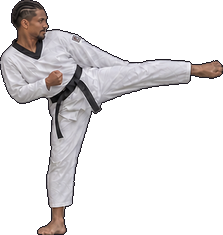
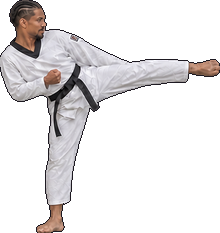
MATT e CLEITON com posição de luta corrigida
Claude-Session: https://claude.ai/code/session_01HXNLdPa6jqkq51q5LfzTTd

Changed region(s): [[0.0273, 0.2103, 1.0, 1.0], [0.0, 0.0, 0.5182, 0.3605], [0.0545, 0.2704, 0.0818, 0.3004]]

diff --git a/index.html b/index.html
@@ -148,9 +148,9 @@ const ROSTER=[
  {nome:'JULINHA 2',tam:0.82,real:true,hit:{soco:{x:10,y:-49,w:22,h:13},direto:{x:8,y:-47,w:22,h:13},chute:{x:11,y:-57,w:22,h:13},giro:{x:11,y:-57,w:22,h:13},passo:{x:11,y:-57,w:22,h:13},aereo:{x:11,y:-57,w:22,h:13}},spr:{idle:['julinha2-idle.webp',88.2,1.0],a0:['julinha2-idle.webp',88.2,1.0],a1:['julinha2-idle2.webp',91.2,1.0],a2:['julinha2-andar.webp',58.2,1.004],a3:['julinha2-idle2.webp',91.2,1.0],junta:['julinha2-junta.webp',37.5,1.004],soco:['julinha2-soco.webp',87.0,0.983],direto:['julinha2-direto.webp',92.0,0.983],chute:['julinha2-chute.webp',62.0,1.004],alto:['julinha2-chute.webp',62.0,1.004],passo:['julinha2-chute.webp',62.0,1.004],guarda:['julinha2-guarda.webp',92.2,1.0]},faixa:'#f2c230',pele:'#c98d63',cabelo:'#141010',estilo:'rabo'},
  {nome:'LAURA',real:true,hit:{soco:{x:6,y:-48,w:22,h:13},direto:{x:7,y:-50,w:22,h:13},chute:{x:7,y:-62,w:22,h:13},giro:{x:13,y:-59,w:22,h:13},passo:{x:20,y:-50,w:22,h:13},lateral:{x:20,y:-50,w:22,h:13},aereo:{x:7,y:-62,w:22,h:13}},spr:{idle:['laura-idle.webp',73.2,1.0],a0:['laura-idle.webp',73.2,1.0],a1:['laura-idle2.webp',78.8,1.021],a2:['laura-andar.webp',51.5,0.983],a3:['laura-idle2.webp',78.8,1.021],soco:['laura-soco.webp',93.2,0.933],direto:['laura-direto.webp',93.8,0.963],chute:['laura-chute.webp',46.0,1.038],alto:['laura-alto.webp',85.0,1.012],passo:['laura-lado.webp',78.5,1.021],guarda:['laura-guarda.webp',75.0,0.979]},faixa:'#e6e6e0',pele:'#d9a27a',cabelo:'#1a120d',estilo:'rabo'},
  {nome:'IAN',real:true,hit:{soco:{x:10,y:-48,w:22,h:13},direto:{x:8,y:-49,w:22,h:13},chute:{x:14,y:-52,w:22,h:13},giro:{x:8,y:-60,w:22,h:13},passo:{x:14,y:-52,w:22,h:13},lateral:{x:14,y:-52,w:22,h:13},aereo:{x:14,y:-24,w:22,h:13}},spr:{idle:['ian-idle.webp',73.5,1.0],a0:['ian-idle.webp',73.5,1.0],a1:['ian-guarda.webp',66.5,0.996],a2:['ian-andar.webp',65.8,0.992],a3:['ian-guarda.webp',66.5,0.996],junta:['ian-junta.webp',30.5,1.038],soco:['ian-soco.webp',93.5,0.958],direto:['ian-direto.webp',96.2,0.975],chute:['ian-chute.webp',75.5,0.988],alto:['ian-alto.webp',62.5,1.071],passo:['ian-chute.webp',75.5,0.988],voa:['ian-voa.webp',46.8,0.675],guarda:['ian-guarda.webp',66.5,0.996]},faixa:'#e6e6e0',pele:'#d9a27a',cabelo:'#141010',estilo:'curto'},
- {nome:'MATT',tam:1.14,real:true,hit:{soco:{x:8,y:-50,w:22,h:13},direto:{x:9,y:-49,w:22,h:13},chute:{x:12,y:-44,w:22,h:13},passo:{x:13,y:-49,w:22,h:13},lateral:{x:13,y:-49,w:22,h:13},aereo:{x:12,y:-44,w:22,h:13},salto:{x:10,y:-67,w:26,h:18}},spr:{idle:['matt-idle.webp',66.0,1.0],a0:['matt-idle.webp',66.0,1.0],a1:['matt-andar.webp',80.5,0.979],a2:['matt-andar.webp',80.5,0.979],a3:['matt-andar.webp',80.5,0.979],soco:['matt-soco.webp',95.2,0.979],direto:['matt-direto.webp',101.2,0.967],chute:['matt-chute.webp',52.0,1.021],passo:['matt-lado.webp',94.0,1.004],pulo:['matt-pulo.webp',88.0,0.821],gancho:['matt-gancho.webp',84.5,1.008],pouso:['matt-pouso.webp',98.5,0.629],guarda:['matt-idle.webp',66.0,1.0]},faixa:'#151515',gola:true,pele:'#e0b48e',cabelo:'#1a120d',estilo:'cacheado'},
+ {nome:'MATT',tam:1.14,real:true,hit:{soco:{x:8,y:-50,w:22,h:13},direto:{x:9,y:-49,w:22,h:13},chute:{x:12,y:-43,w:22,h:13},passo:{x:12,y:-49,w:22,h:13},lateral:{x:12,y:-49,w:22,h:13},aereo:{x:12,y:-43,w:22,h:13},salto:{x:4,y:-62,w:30,h:26}},spr:{idle:['matt-idle.webp',70.2,1.0],a0:['matt-idle.webp',70.2,1.0],a1:['matt-andar.webp',81.2,0.975],a2:['matt-andar.webp',81.2,0.975],a3:['matt-andar.webp',81.2,0.975],soco:['matt-soco.webp',95.0,0.967],direto:['matt-direto.webp',101.5,0.958],chute:['matt-chute.webp',49.5,1.012],passo:['matt-lado.webp',95.5,0.996],pulo:['matt-pulo.webp',87.5,0.812],gancho:['matt-gancho.webp',83.0,1.017],pouso:['matt-pouso.webp',97.0,0.629],guarda:['matt-idle.webp',70.2,1.0]},faixa:'#151515',gola:true,pele:'#e0b48e',cabelo:'#1a120d',estilo:'cacheado'},
  {nome:'TIO',real:true,hit:{soco:{x:12,y:-51,w:22,h:13},direto:{x:11,y:-50,w:22,h:13},chute:{x:19,y:-47,w:22,h:13},giro:{x:19,y:-47,w:22,h:13},passo:{x:18,y:-41,w:22,h:13},lateral:{x:18,y:-41,w:22,h:13},aereo:{x:19,y:-47,w:22,h:13}},spr:{idle:['tio-idle.webp',74.2,1.0],a0:['tio-idle.webp',74.2,1.0],a1:['tio-andar.webp',88.2,0.979],a2:['tio-andar2.webp',59.0,1.029],a3:['tio-andar.webp',88.2,0.979],junta:['tio-junta.webp',48.0,1.083],soco:['tio-soco.webp',83.0,1.004],direto:['tio-direto.webp',86.5,0.988],chute:['tio-chute.webp',45.5,1.071],alto:['tio-chute.webp',45.5,1.071],passo:['tio-lado.webp',73.5,1.058],guarda:['tio-guarda.webp',76.0,0.996]},faixa:'#f2c230',pele:'#e0b48e',cabelo:'#2a1810',estilo:'curto'},
- {nome:'CLEITON',tam:1.14,real:true,hit:{soco:{x:10,y:-52,w:22,h:13},direto:{x:10,y:-51,w:22,h:13},chute:{x:22,y:-45,w:22,h:13},giro:{x:9,y:-63,w:22,h:18},passo:{x:11,y:-64,w:22,h:20},lateral:{x:22,y:-45,w:22,h:13},aereo:{x:22,y:-45,w:22,h:13}},spr:{idle:['cleiton-idle.webp',75.0,1.0],a0:['cleiton-idle.webp',75.0,1.0],a1:['cleiton-guarda.webp',76.5,0.979],a2:['cleiton-andar.webp',54.8,0.988],a3:['cleiton-guarda.webp',76.5,0.979],junta:['cleiton-junta.webp',120.0,0.946],soco:['cleiton-soco.webp',79.2,0.996],direto:['cleiton-direto.webp',84.8,0.988],chute:['cleiton-chute.webp',51.5,0.979],alto:['cleiton-alto.webp',84.0,1.05],passo:['cleiton-costas.webp',90.5,1.087],guarda:['cleiton-guarda.webp',76.5,0.979]},faixa:'#151515',gola:true,pele:'#8a5a3b',cabelo:'#120c08',estilo:'curto'},
+ {nome:'CLEITON',tam:1.14,real:true,hit:{soco:{x:10,y:-52,w:22,h:13},direto:{x:10,y:-51,w:22,h:13},chute:{x:21,y:-45,w:22,h:13},giro:{x:9,y:-63,w:22,h:18},passo:{x:15,y:-48,w:22,h:20},lateral:{x:21,y:-45,w:22,h:13},aereo:{x:21,y:-45,w:22,h:13}},spr:{idle:['cleiton-idle.webp',74.5,1.0],a0:['cleiton-idle.webp',74.5,1.0],a1:['cleiton-guarda.webp',73.0,0.971],a2:['cleiton-andar.webp',55.5,0.975],a3:['cleiton-guarda.webp',73.0,0.971],junta:['cleiton-junta.webp',120.0,0.938],soco:['cleiton-soco.webp',78.5,0.992],direto:['cleiton-direto.webp',84.2,0.979],chute:['cleiton-chute.webp',50.0,0.971],alto:['cleiton-alto.webp',82.0,1.046],passo:['cleiton-costas.webp',87.0,0.917],guarda:['cleiton-guarda.webp',73.0,0.971]},faixa:'#151515',gola:true,pele:'#8a5a3b',cabelo:'#120c08',estilo:'curto'},
  {nome:'CAMPOS',real:true,fwdKick:true,backStep:true,hit:{soco:{x:7,y:-50,w:22,h:16},direto:{x:6,y:-51,w:22,h:16},chute:{x:9,y:-67,w:22,h:16},giro:{x:9,y:-67,w:22,h:16},passo:{x:17,y:-54,w:22,h:16},lateral:{x:17,y:-54,w:22,h:16},aereo:{x:9,y:-67,w:22,h:16}},spr:{idle:['campos-idle.webp',85.0,1.0],a0:['campos-idle.webp',85.0,1.0],a1:['campos-idle2.webp',88.8,1.058],a2:['campos-andar.webp',77.0,1.004],a3:['campos-idle2.webp',88.8,1.058],junta:['campos-junta.webp',29.0,1.033],soco:['campos-soco.webp',78.0,1.004],direto:['campos-direto.webp',87.5,1.004],chute:['campos-alto.webp',58.5,1.083],alto:['campos-alto.webp',58.5,1.083],passo:['campos-lado.webp',89.5,0.979],lado:['campos-lado.webp',89.5,0.979],guarda:['campos-guarda.webp',69.5,1.004]},faixa:'#f2c230',pele:'#e0b48e',cabelo:'#4a2a14',estilo:'cacheado'},
  {nome:'CAÇADOR',tam:0.82,real:true,hit:{soco:{x:5,y:-51,w:22,h:16},direto:{x:5,y:-50,w:22,h:16},chute:{x:15,y:-52,w:22,h:16},giro:{x:15,y:-52,w:22,h:16},passo:{x:15,y:-52,w:22,h:16},lateral:{x:15,y:-52,w:22,h:16},aereo:{x:15,y:-52,w:22,h:16}},spr:{idle:['cacador-idle.webp',74.0,1.0],a0:['cacador-idle.webp',74.0,1.0],a1:['cacador-idle2.webp',75.8,1.029],a2:['cacador-andar.webp',72.2,1.008],a3:['cacador-idle2.webp',75.8,1.029],junta:['cacador-junta.webp',41.0,1.021],soco:['cacador-soco.webp',68.8,1.017],direto:['cacador-direto.webp',79.2,1.017],chute:['cacador-chute.webp',41.5,1.017],alto:['cacador-chute.webp',41.5,1.017],passo:['cacador-chute.webp',41.5,1.017],guarda:['cacador-guarda.webp',83.8,1.012]},faixa:'#f2c230',pele:'#e0b48e',cabelo:'#2a1810',estilo:'cacheado'}
 ];
